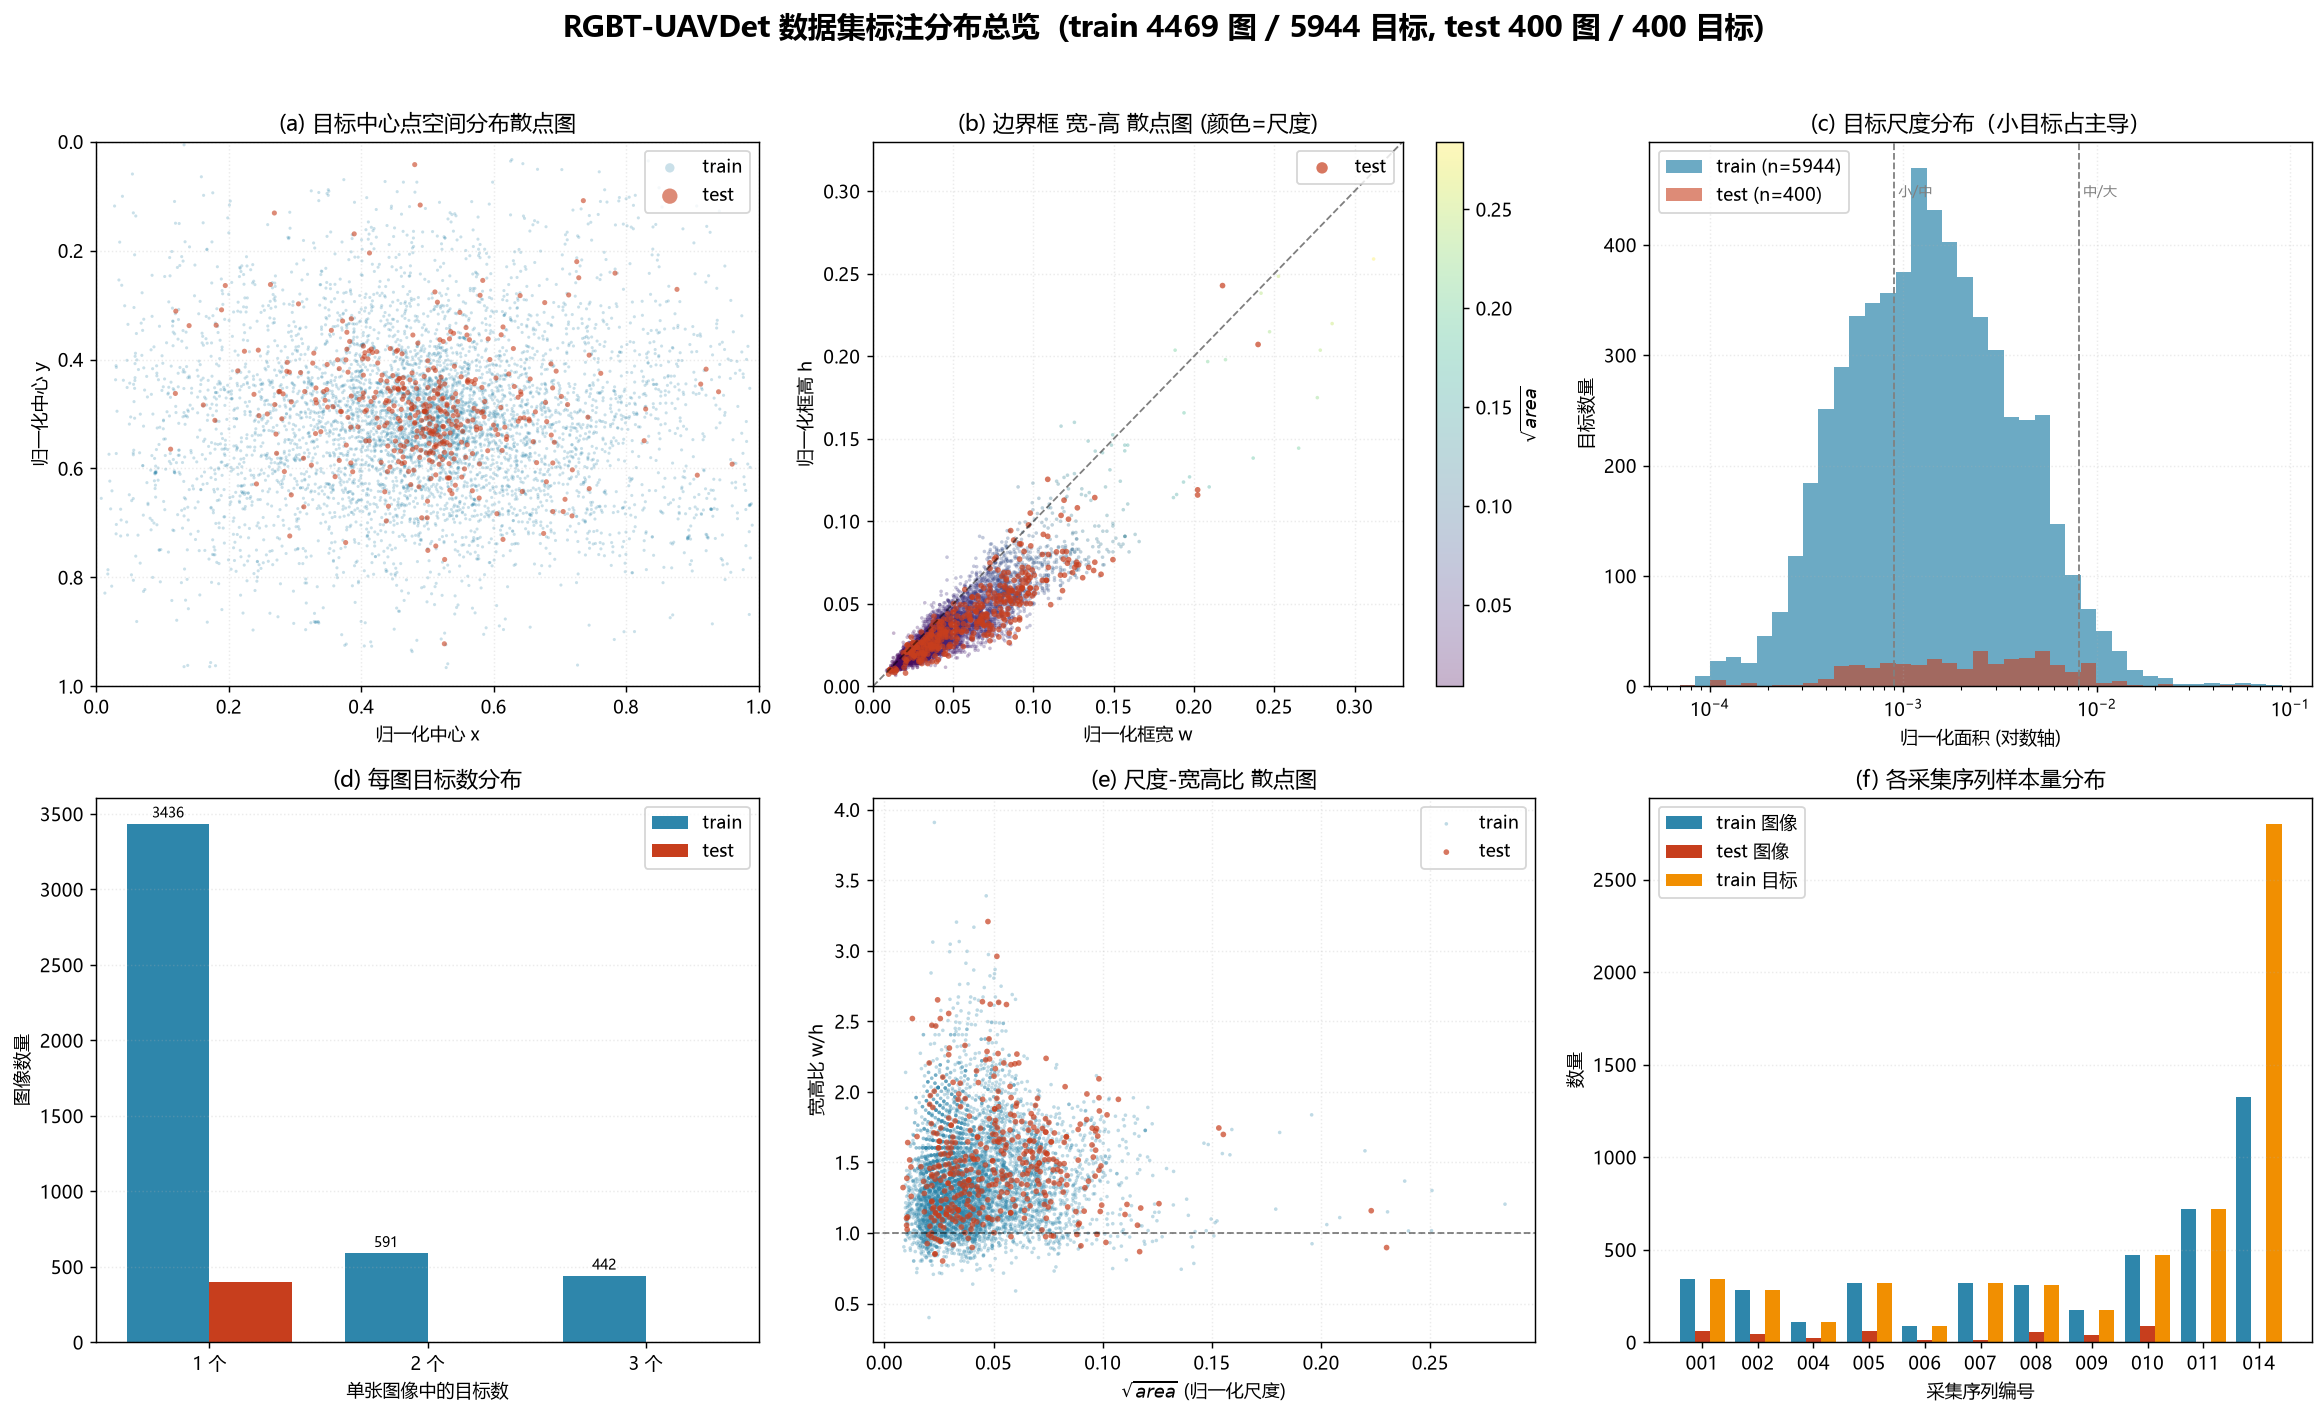
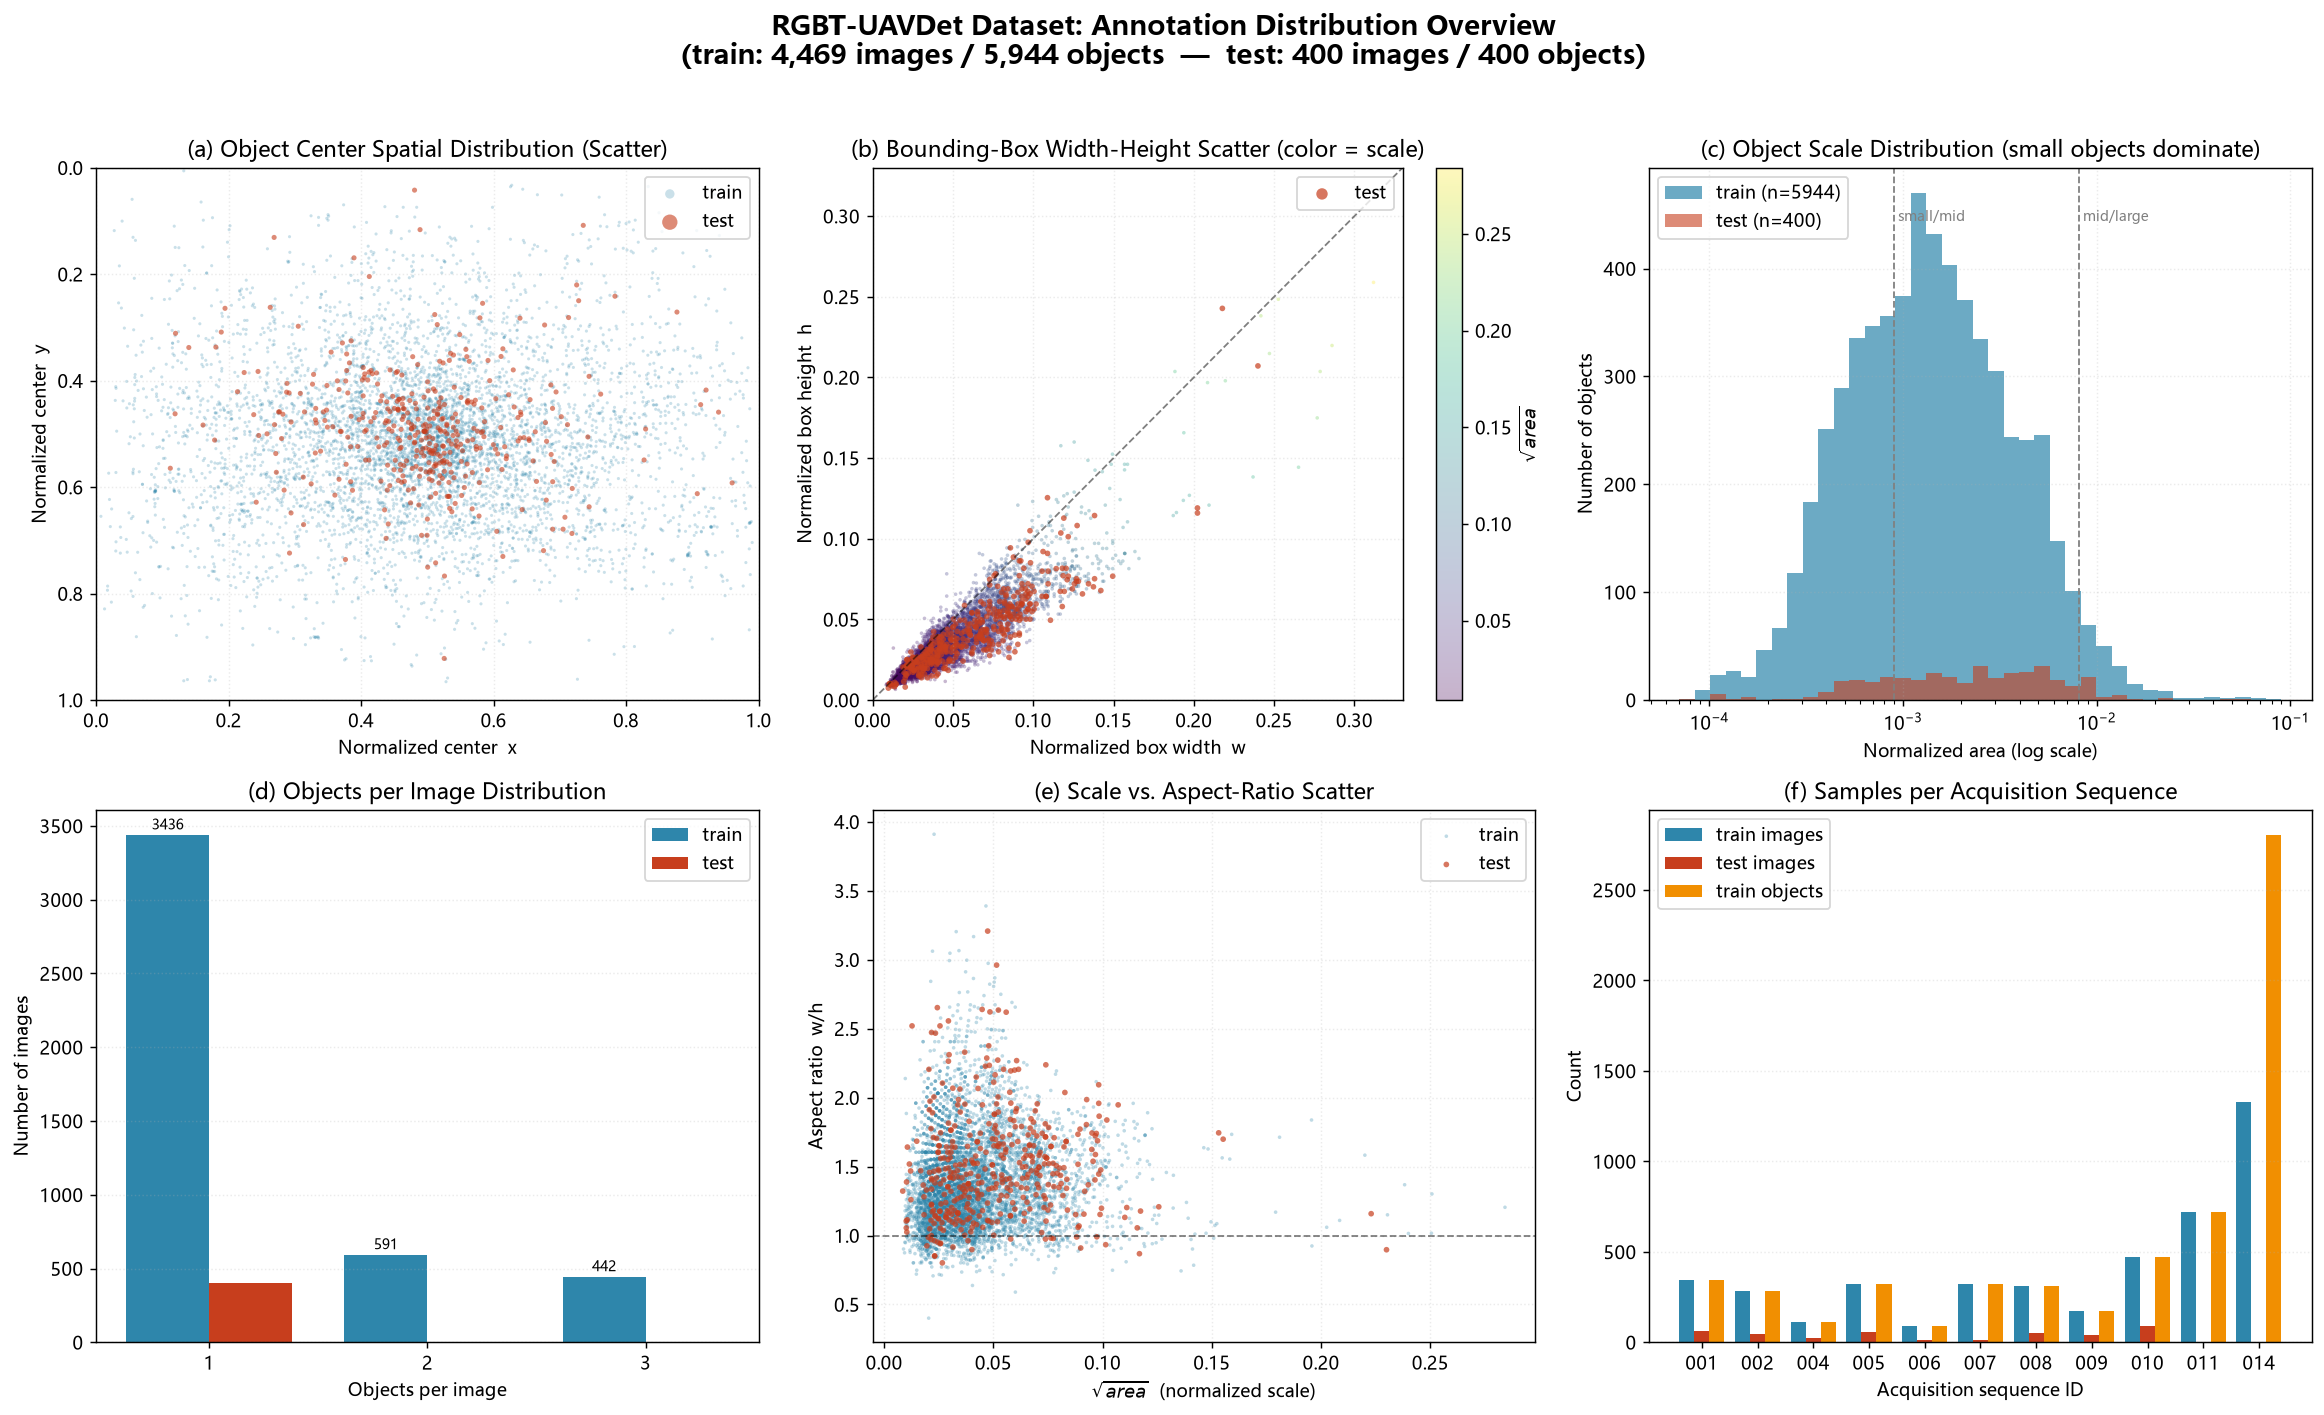
Rewrite documentation in English and regenerate distribution figures
- README is now fully English (single-language version)
- Regenerated all three figures with English titles, axis labels and legends
- Data unchanged: 4,869 vis-IR pairs, 4 versions, single UAV class, 6,344 boxes
- Release note: full dataset will be published upon paper acceptance

diff --git a/README.md b/README.md
@@ -1,137 +1,137 @@
-# RGBT-UAVDet: 面向反无人机检测的可见光–红外双模态数据集
+# RGBT-UAVDet: A Dual-Modal Visible–Infrared Dataset for Anti-UAV Detection
 
-**RGBT-UAVDet** 是一个用于**反无人机（Anti-UAV）目标检测**的可见光–红外双模态数据集。数据集以空间严格配准的图像对形式组织，同时提供雾天、低照度两种可见光退化版本，用于评估检测模型在复杂成像条件与模态协同下的鲁棒性。
+**RGBT-UAVDet** is a dual-modal visible–infrared (RGB-T) dataset for **anti-UAV object detection**. Each sample is a spatially registered visible/infrared image pair, additionally provided with two degraded visible variants — **fog** and **low-light** — so that detection robustness can be evaluated under adverse imaging conditions and through cross-modal collaboration.
 
-> 📦 **数据发布说明**：为保证评审与发表的公平性，本仓库当前仅公开数据集的统计描述与分布分析。**论文录用后，我们将在此发布完整数据集。**
-> The full dataset will be released here upon paper acceptance.
+> 📦 **Release note.** To keep the review process fair, this repository currently publishes only the statistical description and the distribution analysis of the dataset. **The full dataset will be released here upon paper acceptance.**
 
 ---
 
-## 📊 数据集概览
+## 📊 Overview
 
-| 项目 | 说明 |
+| Item | Description |
 |---|---|
-| 任务类型 | 反无人机目标检测（双模态） |
-| 模态 | 可见光（RGB）＋ 红外（IR），逐像素空间配准 |
-| 图像对数量 | **4,869 对**（训练 4,469 ／ 测试 400） |
-| 图像版本 | 每对含 4 个版本：`vis` 可见光、`inf` 红外、`vis_fog` 雾天退化、`vis_ll` 低照度退化，共 **19,476 张** |
-| 图像规格 | 640 × 640，RGB 存储 |
-| 类别 | **1 类：UAV（无人机）** |
-| 标注总数 | **6,344** 个边界框（训练 5,944 ／ 测试 400） |
-| 标注格式 | YOLO（`class x_center y_center width height`，归一化坐标） |
-| 数据来源 | 无人机采集视频序列抽帧，训练 11 个序列 ／ 测试 9 个序列 |
-| 划分方式 | 逐序列按时间划分，训练/测试共享序列但帧不重叠 |
+| Task | Anti-UAV object detection (dual-modal) |
+| Modalities | Visible (RGB) + Infrared (IR), spatially registered |
+| Image pairs | **4,869** (train 4,469 / test 400) |
+| Versions per pair | `vis` visible, `inf` infrared, `vis_fog` fog-degraded, `vis_ll` low-light-degraded — **19,476 images** in total |
+| Resolution | 640 × 640, stored as RGB |
+| Classes | **1 class: UAV** |
+| Annotations | **6,344** bounding boxes (train 5,944 / test 400) |
+| Format | YOLO — `class x_center y_center width height`, all normalized |
+| Source | Frames sampled from UAV-captured video sequences: 11 training sequences / 9 test sequences |
+| Split | Per-sequence temporal split; train and test share sequences but never share frames |
 
-## 🗂 目录结构
+## 🗂 Folder Structure
 
 ```
 uav_data_ori/
-├── vis/          # 可见光原始图像
-│   ├── train/    #   4,469 张
-│   └── test/     #     400 张
-├── inf/          # 红外图像（与 vis 同名配准）
-├── vis_fog/      # 雾天退化可见光
-├── vis_ll/       # 低照度退化可见光
-└── labels/       # YOLO 格式标注（与 vis 同名对应）
-    ├── train/    #   4,469 个 .txt
-    └── test/     #     400 个 .txt
+├── vis/          # original visible images
+│   ├── train/    #   4,469 images
+│   └── test/     #     400 images
+├── inf/          # infrared images (registered, same filenames as vis)
+├── vis_fog/      # fog-degraded visible images
+├── vis_ll/       # low-light-degraded visible images
+└── labels/       # YOLO annotations (same filenames as vis)
+    ├── train/    #   4,469 .txt files
+    └── test/     #     400 .txt files
 ```
 
-四个模态目录与标注目录**文件名完全一致**，任意一对可见光–红外图像共享同一目标框标注。
+All four modality directories and the label directory share **exactly the same filenames**, so any visible–infrared pair refers to the same set of bounding boxes.
 
-## 📈 数据分布分析
+## 📈 Distribution Analysis
 
-### 标注分布总览
+### Annotation distribution overview
 
 ![dataset_distribution](figures/dataset_distribution.png)
 
-### 目标空间与尺度分布
+### Spatial and scale distribution
 
 ![spatial_and_scale](figures/spatial_and_scale.png)
 
-### 双模态图像特性
+### Dual-modal image characteristics
 
 ![modality_statistics](figures/modality_statistics.png)
 
-## 🔍 关键统计
+## 🔍 Key Statistics
 
-### 边界框统计（归一化坐标）
+### Bounding-box statistics (normalized coordinates)
 
-| 统计项 | 训练集 | 测试集 |
+| Metric | Train | Test |
 |---|---|---|
-| 目标数 | 5,944 | 400 |
-| 宽度中位数 | 0.0425 | 0.0591 |
-| 高度中位数 | 0.0315 | 0.0380 |
-| 宽高比中位数 | 1.32 | 1.45 |
-| 面积中位数 | 0.00135 | 0.00229 |
+| Objects | 5,944 | 400 |
+| Median width | 0.0425 | 0.0591 |
+| Median height | 0.0315 | 0.0380 |
+| Median aspect ratio | 1.32 | 1.45 |
+| Median area | 0.00135 | 0.00229 |
 
-### 目标尺度构成（按归一化面积）
+### Object scale composition (by normalized area)
 
-| 尺度 | 阈值 | 训练集占比 | 测试集占比 |
+| Scale | Range | Train | Test |
 |---|---|---|---|
-| 小目标 | < 0.0009 | 34.3%（2,036） | 23.8%（95） |
-| 中目标 | 0.0009 – 0.0081 | 62.3%（3,702） | 67.8%（271） |
-| 大目标 | ≥ 0.0081 | 3.5%（206） | 8.5%（34） |
+| Small | < 0.0009 | 34.3% (2,036) | 23.8% (95) |
+| Medium | 0.0009 – 0.0081 | 62.3% (3,702) | 67.8% (271) |
+| Large | ≥ 0.0081 | 3.5% (206) | 8.5% (34) |
 
-数据集以**小目标为主**：多数目标在 640×640 图像中仅占数十像素，符合远距离反无人机场景的实际成像特点。
+The dataset is **dominated by small objects**: most targets occupy only a few dozen pixels in a 640 × 640 frame, which matches the long-range imaging characteristics of real anti-UAV scenarios.
 
-### 每图目标数
+### Objects per image
 
-| 目标数/图 | 训练集 | 测试集 |
+| Objects / image | Train | Test |
 |---|---|---|
-| 1 | 3,436（76.9%） | 400（100%） |
-| 2 | 591（13.2%） | 0 |
-| 3 | 442（9.9%） | 0 |
+| 1 | 3,436 (76.9%) | 400 (100%) |
+| 2 | 591 (13.2%) | 0 |
+| 3 | 442 (9.9%) | 0 |
 
-### 模态成像特性（随机采样 600 张/模态）
+### Modality imaging characteristics (600 images sampled per modality)
 
-| 模态 | 平均亮度 | 亮度标准差 | 对比度（灰度标准差） |
+| Modality | Mean brightness | Brightness std | Contrast (grayscale std) |
 |---|---|---|---|
-| 可见光 `vis` | 0.587 ± 0.051 | 0.051 | **0.132** |
-| 红外 `inf` | 0.126 ± 0.030 | 0.030 | 0.117 |
-| 雾天 `vis_fog` | 0.601 ± 0.023 | 0.023 | 0.070 |
-| 低照度 `vis_ll` | 0.294 ± 0.025 | 0.025 | 0.066 |
+| Visible `vis` | 0.587 ± 0.051 | 0.051 | **0.132** |
+| Infrared `inf` | 0.126 ± 0.030 | 0.030 | 0.117 |
+| Fog `vis_fog` | 0.601 ± 0.023 | 0.023 | 0.070 |
+| Low-light `vis_ll` | 0.294 ± 0.025 | 0.025 | 0.066 |
 
-可见：
-- **红外图像整体偏暗**（亮度约为可见光的 1/5），但保留了较高的局部对比度，目标热特征明显；
-- **雾天版本亮度与可见光接近，但对比度下降约 47%**，呈典型的低对比度退化；
-- **低照度版本亮度约为可见光的一半，对比度同样下降约 50%**；
-- 同一场景跨模态亮度配对散点显示，雾天/低照度退化与原始可见光呈强线性相关，说明退化版本由同一源图像导出，标注框可直接共用。
+Observations:
 
-### 各序列样本量
+- **Infrared images are much darker** (about one fifth of the visible brightness) while retaining comparable local contrast, so UAV thermal signatures remain salient.
+- **The fog variant keeps visible-like brightness but loses about 47% of the contrast**, i.e. a typical low-contrast degradation.
+- **The low-light variant is roughly half as bright** as the visible original, with a similar ~50% contrast drop.
+- The paired cross-modality brightness scatter shows a strong linear correlation between the degraded variants and the original visible images, which confirms that the degraded versions are derived from the same source frames and that all four versions can safely share one annotation.
 
-| 序列 | 001 | 002 | 004 | 005 | 006 | 007 | 008 | 009 | 010 | 011 | 014 |
+### Samples per sequence
+
+| Sequence | 001 | 002 | 004 | 005 | 006 | 007 | 008 | 009 | 010 | 011 | 014 |
 |---|---|---|---|---|---|---|---|---|---|---|---|
-| 训练图像 | 344 | 282 | 110 | 320 | 89 | 323 | 310 | 175 | 470 | 719 | 1,327 |
-| 训练目标 | 344 | 282 | 110 | 320 | 89 | 323 | 310 | 175 | 470 | 719 | 2,802 |
-| 测试图像 | 63 | 44 | 22 | 59 | 15 | 11 | 54 | 42 | 90 | — | — |
+| Train images | 344 | 282 | 110 | 320 | 89 | 323 | 310 | 175 | 470 | 719 | 1,327 |
+| Train objects | 344 | 282 | 110 | 320 | 89 | 323 | 310 | 175 | 470 | 719 | 2,802 |
+| Test images | 63 | 44 | 22 | 59 | 15 | 11 | 54 | 42 | 90 | — | — |
 
-多目标帧集中在序列 014（1,327 帧含 2,802 个目标，平均约 2.1 个/帧），其余序列以单目标帧为主；序列 011、014 未划入测试集。
+Multi-object frames concentrate in sequence **014** (1,327 frames / 2,802 objects, about 2.1 objects per frame); all other sequences consist mainly of single-object frames. Sequences **011** and **014** are not included in the test split.
 
-## 📋 标注格式
+## 📋 Annotation Format
 
-每张图像对应一个同名 `.txt` 文件，每行一个目标：
+Each image has a same-named `.txt` file with one line per object:
 
 ```
 <class_id> <x_center> <y_center> <width> <height>
 0 0.460740 0.133084 0.265209 0.144321
 ```
 
-- `class_id`：类别索引，本数据集仅 `0`（UAV）
-- 坐标均为相对图像宽高的归一化值（0–1）
-- 训练集与测试集**均无空标注图像**，每张图至少含 1 个目标
+- `class_id` — class index; this dataset has only `0` (UAV).
+- All coordinates are normalized to the image width and height (0–1).
+- **There are no empty annotations**: every image in both splits contains at least one object.
 
-## 📦 完整数据集获取
+## 📦 Obtaining the Full Dataset
 
-当前仓库仅提供数据集统计信息与分布分析图表。
+This repository currently provides only the statistics and the distribution analysis.
 
-**论文录用后，完整数据集（含全部 19,476 张图像与标注）将在此仓库发布。**
+**The full dataset (all 19,476 images and their annotations) will be published here upon paper acceptance.**
 
-如需在录用前获取数据用于学术合作，请通过 GitHub Issue 联系。
+If you need early access for academic collaboration, please open a GitHub Issue.
 
-## 📚 引用
+## 📚 Citation
 
-如果您使用本数据集，请引用（录用后更新 BibTeX）：
+Please cite (BibTeX will be updated upon acceptance):
 
 ```bibtex
 @misc{RGBT-UAVDet,
@@ -144,48 +144,4 @@ uav_data_ori/
 
 ## 📄 License
 
-数据集遵循论文录用后公开的许可协议发布（计划采用 CC BY-NC-SA 4.0）。
-
----
-
-# RGBT-UAVDet: A Dual-Modal Visible–Infrared Dataset for Anti-UAV Detection (English)
-
-**RGBT-UAVDet** is a dual-modal visible–infrared (RGB-T) dataset for **anti-UAV object detection**. It consists of spatially registered image pairs, together with two degraded visible variants (fog and low-light), to evaluate detection robustness under challenging imaging conditions and cross-modal collaboration.
-
-> 📦 **Release note**: only the statistical description and distribution analysis are public for now. **The full dataset will be released here upon paper acceptance.**
-
-## Overview
-
-| Item | Value |
-|---|---|
-| Task | Anti-UAV object detection (dual-modal) |
-| Modalities | Visible (RGB) + Infrared (IR), spatially registered |
-| Image pairs | **4,869** (train 4,469 / test 400) |
-| Versions per pair | `vis`, `inf`, `vis_fog`, `vis_ll` — **19,476 images** in total |
-| Resolution | 640 × 640, RGB |
-| Classes | **1 class: UAV** |
-| Annotations | **6,344** boxes (train 5,944 / test 400) |
-| Format | YOLO (`class x_center y_center width height`, normalized) |
-| Source | Frames from UAV-captured video sequences (11 train / 9 test sequences) |
-
-## Key statistics
-
-- **Small-object dominant**: 34.3% of training objects have a normalized area below 0.0009; the median bounding box is 0.0425 × 0.0315 in normalized coordinates.
-- **Every image contains at least one object** (no empty annotations); each test image contains exactly one object.
-- **Infrared images are much darker** (mean brightness 0.126 vs. 0.587 for visible) but preserve comparable local contrast (0.117 vs. 0.132).
-- **Fog and low-light variants are derived from the same source images**: their brightness correlates linearly with the original visible images, and contrast drops by ~47–50%, which makes the shared bounding-box annotations directly reusable across all four versions.
-
-## Folder layout
-
-```
-uav_data_ori/
-├── vis/        # visible images (train 4,469 / test 400)
-├── inf/        # registered infrared images (same filenames as vis)
-├── vis_fog/    # fog-degraded visible
-├── vis_ll/     # low-light-degraded visible
-└── labels/     # YOLO .txt annotations (same filenames as vis)
-```
-
-## Citation
-
-Please cite (BibTeX to be updated upon acceptance) — see the Chinese section above.
+The dataset will be released after paper acceptance under the license announced at that time (CC BY-NC-SA 4.0 is planned).
